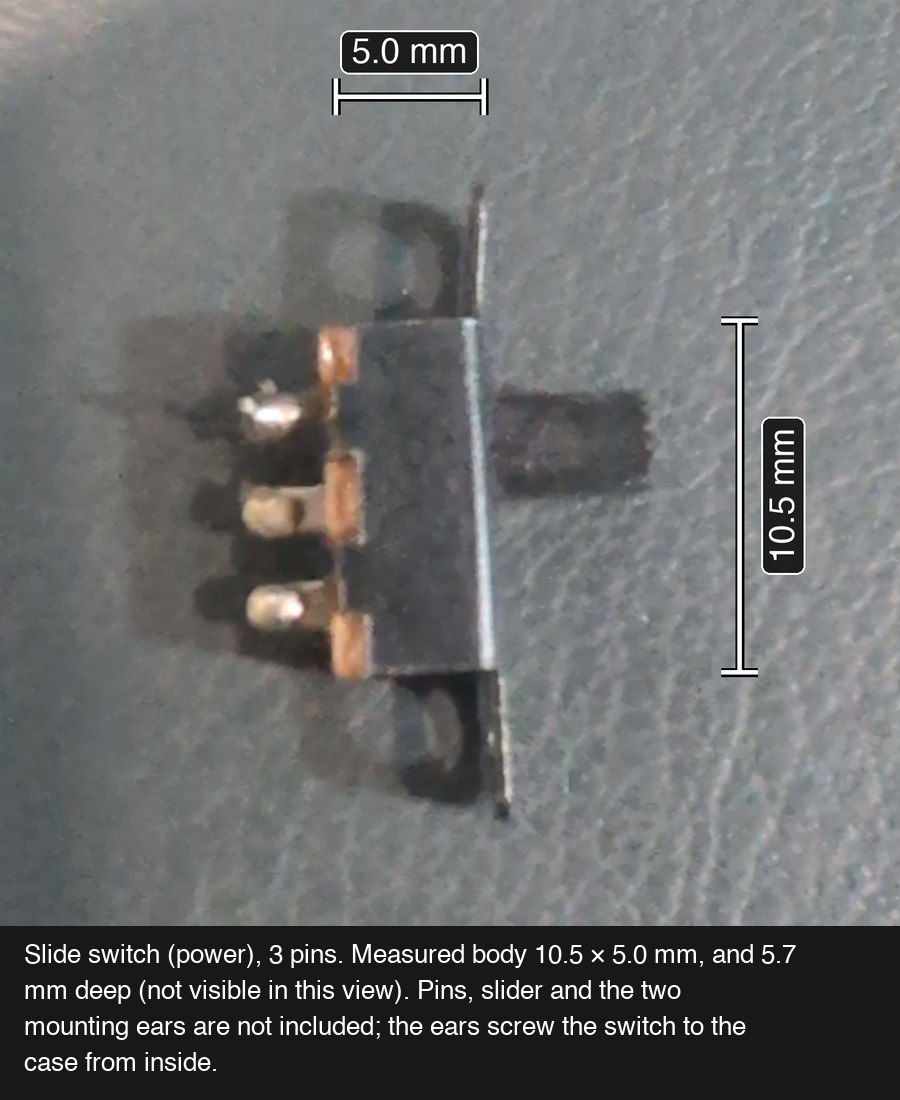
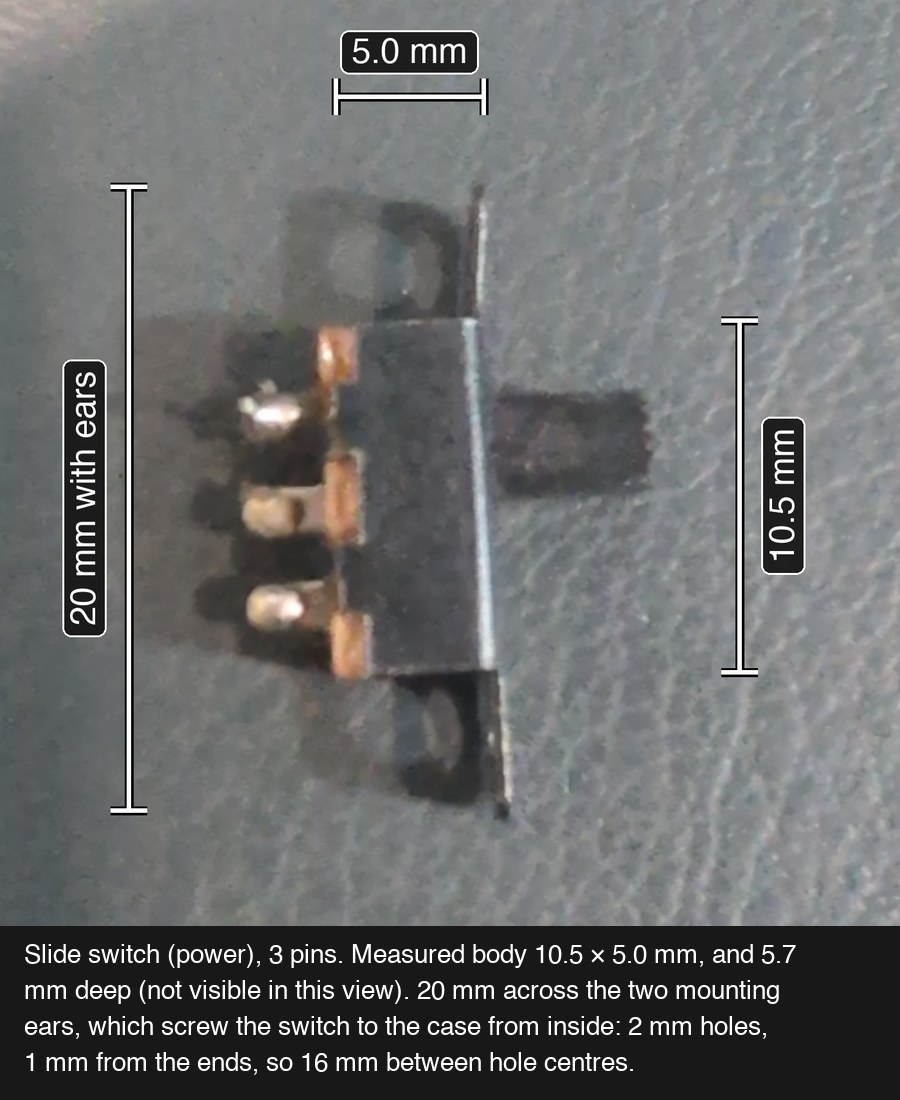
Slide switch: 20 mm across the ears, 2 mm holes

Changed region(s): [[0.0311, 0.8655, 0.8711, 0.9891], [0.0622, 0.1545, 0.1556, 0.7418]]

diff --git a/.claude/CLAUDE.md b/.claude/CLAUDE.md
@@ -116,9 +116,8 @@ Board is built and wired (2026-11-15). Owner's caliper readings of the finished 
   the encoder shaft. Front face: screen and knob; slide switch in a side wall; jack on
   the top edge; two USB-C openings on the bottom edge; SD card out of the right side.
 - The switch keeps its two mounting ears: it is screwed to the case wall from inside
-  (owner, 2026-11-15). Ears not measured; from a blurry photo I estimate about 18.5 mm
-  across the ears and about 14.5 mm between hole centres. Get real figures and the hole
-  diameter before modelling.
+  (owner, 2026-11-15). Owner's figures: 20 mm across the ears, holes 2 mm diameter, hole
+  edge 1 mm from the ear's end. From those I derive 16 mm between hole centres.
 - Not measured yet (ask before modelling): encoder shaft height above the perf board and
   shaft diameter, slider size and travel, jack centre and USB-C centre positions, perf
   board thickness, screen window position from the top and side edges.
